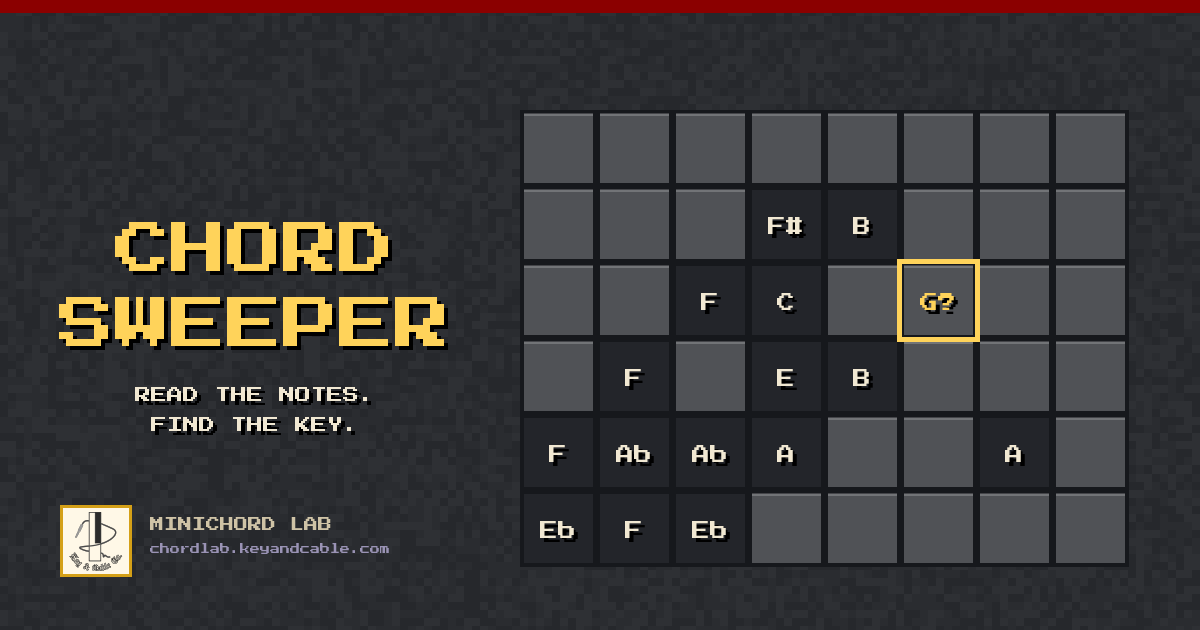
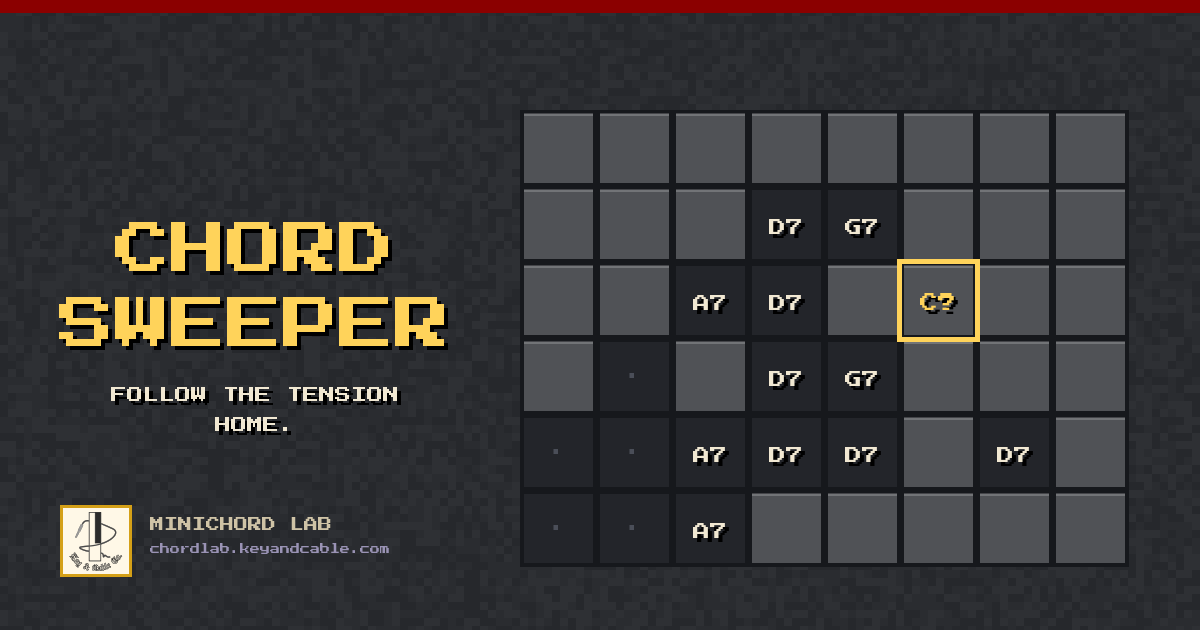
Chord Sweeper: tension and release
Each mine is still a key's home, the release, and every square around
it now holds the tension pointing there: a square's distance from the
mine is how many resolutions its chord is from home, the V7 right
beside it, V of V two away, V of V of V three, calm beyond. Sweeping
plays the square's chord; defusing plays the key's own. The harder
levels bring in the tritone substitutes, the leading-tone diminished
seventh and the bare tritone, which collapses two ways and needs its
neighbours to say which. The rules, side panel, demo, card and
descriptions follow.

diff --git a/arcade/games/chord-sweeper.js b/arcade/games/chord-sweeper.js
@@ -1,36 +1,61 @@
-// Chord Sweeper: a minefield where each mine is a key's home, and the notes around it give it away.
+// Chord Sweeper: a minefield where each mine is a key's home, and the tension around it points there.
 // Part of Minichord Lab's Practice Room page (practice/index.html), loaded there in order with the
 // others as plain scripts sharing one scope; see practice/boot.js.
 "use strict";
 
 // ---------- Chord Sweeper ----------
 // An ordinary minefield, eight by six, swept square by square with a cursor steered on the harp (A
-// sweeps, B flags) or the arrow keys. Each mine is the home of a key, its tonic, and every square
-// hides a note that says how close it is: right beside a mine, that key's 3rd or 5th (for G: B or D);
-// two squares away, the key's other notes (A, C, E, F♯); further out, notes outside the key. So the
-// notes swept say what the key is and how near its home lies. Put the cursor on a mine and play its
-// key's home chord (G major for a G mine, E minor for an E minor one) to defuse it; sweep a mine, or
-// play the wrong chord on it, and it goes off. Defuse every mine to clear the field.
+// sweeps, B flags) or the arrow keys. It's a game about tension and release. Each mine is the home of
+// a key, its tonic: the release. Every square around it hides tension pointing there, and how far a
+// square is from the mine is how many resolutions its chord is from home:
+//   right beside a mine   its key's V7 (G7 for C), one resolution away
+//   two away              V of V (D7: D7 to G7 to C)
+//   three away            V of V of V (A7)
+//   further out           calm: no tension to read
+// The harder levels bring in what else resolves home: the V7's tritone substitute (D♭7 for C, which
+// shares G7's tritone, F and B), and its substitutes up the chain (A♭7, E♭7); the leading-tone
+// diminished seventh (B°7), whose two tritones pull four ways; and the bare tritone, F–B, which
+// collapses in to E–C or out to F♯–A♯, so it points at C or at G♭, and only its neighbours tell which.
+// Sweeping a square plays its chord. Put the cursor on a mine and play its key's home chord to defuse
+// it, the resolution; sweep a mine, or play the wrong chord on it, and it goes off.
 const SW_W=8, SW_H=6;
 const SW_MAJOR=["C","G","D","A","E","B","F♯","F","B♭","E♭","A♭","D♭"], SW_MINOR=["A","E","B","F♯","C♯","D","G","C","F"];
 // The keys to find are shown beside the field: by name at the first levels, then only by their key
 // signature on a staff, and major or minor (a signature fits a major key and its relative minor).
+// subs: how often a clue is a tritone substitute instead; dim: whether the one beside a mine can be
+// the vii°7 or the bare tritone
 const SW_LEVELS=[
   {n:"One major key", mines:1, keys:[["C","G","D","F","A"],[]], named:true},
   {n:"One minor key", mines:1, keys:[[],["A","E","D","B","G"]], named:true},
   {n:"Two keys", mines:2, keys:[["C","G","D","F","A"],["A","E","D","B"]], named:true},
-  {n:"Sharps and flats", mines:2, keys:[SW_MAJOR,SW_MINOR]},
-  {n:"Three keys", mines:3, keys:[SW_MAJOR,SW_MINOR]},
+  {n:"Tritone substitutes", mines:2, keys:[SW_MAJOR,SW_MINOR], subs:.5},
+  {n:"Tritones and diminished", mines:3, keys:[SW_MAJOR,SW_MINOR], subs:.4, dim:true},
 ];
-const SW_STEPS=[[0,0],[1,2],[2,4],[3,5],[4,7],[5,9],[6,11]], SW_STEPS_MIN=[[0,0],[1,2],[2,3],[3,5],[4,7],[5,8],[6,10]];
 const SW_FIFTHS={C:0,G:1,D:2,A:3,E:4,B:5,"F♯":6,"C♯":7,F:-1,"B♭":-2,"E♭":-3,"A♭":-4,"D♭":-5,"G♭":-6};
-// a key: its home, its chord's 3rd and 5th, its other notes, and the five notes outside it, spelled
-// the way the key leans (sharps for sharp keys, flats for flat ones)
+// A key and its chain of tension: V7, V/V and V/V/V spelled from the key (in minor too, V7 being the
+// harmonic minor's), their tritone substitutes named the way a chart names them (D♭7 in C; in D♭,
+// D7 rather than E𝄫7), the leading-tone diminished seventh, and the V7's bare tritone.
 function swKeyOf(tonic, minor){
-  const steps=minor ? SW_STEPS_MIN : SW_STEPS, scale=steps.map(([l,s])=>above(tonic,l,s));
-  const fifths=(SW_FIFTHS[tonic]??0)-(minor?3:0), pcs=new Set(scale.map(pcOfName));
-  const outside=[...Array(12).keys()].filter(pc=>!pcs.has(pc)).map(pc=> (fifths<0 ? FLAT_NAMES : SHARP_NAMES)[pc]);
-  return {tonic, minor, name:`${tonic} ${minor?"MINOR":"MAJOR"}`, chord:tonic+(minor?"m":""), near:[scale[2],scale[4]], warm:[scale[1],scale[3],scale[5],scale[6]], outside};
+  const up=(l,s)=>above(tonic,l,s), sub=s=>FLAT_NAMES[(pcOfName(tonic)+s)%12];
+  return {tonic, minor, name:`${tonic} ${minor?"MINOR":"MAJOR"}`, chord:tonic+(minor?"m":""),
+    chain:[up(4,7), up(1,2), up(5,9)],            // the roots of V7, V/V and V/V/V
+    subs:[sub(1), sub(8), sub(3)],                // their tritone substitutes: ♭II7, ♭VI7, ♭III7
+    dim:up(6,11), tritone:[up(6,11), up(3,5)]};   // vii°7, and the V7's tritone (B and F in C)
+}
+// what a square shows, from its distance to the nearest mine and that mine's key: a chord (with the
+// notes it plays when swept), or calm
+const swTones=(root,q)=>spellChord(root,q)||[root];
+function swClueOptions(k, d, L){
+  if(d>3) return [{label:"·", tones:[]}];
+  const i=d-1, out=[{label:k.chain[i]+"7", tones:swTones(k.chain[i],"7")}];
+  if(L.subs) out.push({label:k.subs[i]+"7", tones:swTones(k.subs[i],"7"), sub:true});
+  if(L.dim && d===1) out.push({label:k.dim+"°7", tones:swTones(k.dim,"°7"), dim:true}, {label:k.tritone.join("–"), tones:k.tritone, tritone:true});
+  return out;
+}
+function swClue(k, d, L){
+  const o=swClueOptions(k, d, L); if(o.length===1) return o[0];
+  if(L.dim && d===1 && Math.random()<.35) return rnd(o.filter(x=>x.dim||x.tritone));
+  return L.subs && Math.random()<L.subs ? o.find(x=>x.sub) : o[0];
 }
 const swKey=(x,y)=>x+","+y;
 function genSweeper(){
@@ -84,7 +109,7 @@ function swDraw(){
     let inner="", cls="";
     if(m && m.defused){ inner=`<b class="home">${m.key.chord}</b>`; cls=" defused"; }
     else if(m && (m.boom || reveal)){ inner=SW_MINE+(reveal?`<small class="mk">${m.key.chord}</small>`:""); cls=m.boom?" boom":" shown"; }
-    else if(open){ inner=`<b>${blast.clue.get(k)}</b>`; if(saved.beginner) cls=` d${Math.min(3,swDist(x,y))}`; }
+    else if(open){ const c=blast.clue.get(k)||{label:"·"}; inner=`<b>${c.label}</b>`; if(c.label==="·") cls=" calm"; if(saved.beginner) cls+=` d${Math.min(3,swDist(x,y))}`; }
     else if(blast.flags.has(k)) inner=SW_FLAG;
     h+=`<span class="swcell${open?" open":""}${cls}${cur?" cur":""}" data-x="${x}" data-y="${y}" style="left:${blast.gx+x*s}px;top:${blast.gy+y*s}px;width:${s}px;height:${s}px">${inner}</span>`;
   }
@@ -106,15 +131,16 @@ function swSide(){
   const done=k=>blast.mines.some(m=>m.key===k && m.defused);
   const find=(blast.keys||[]).map(k=>`<li class="${done(k)?"found":""}">${L.named ? `<b>${k.name}</b>` : `${swSigSvg((SW_FIFTHS[k.tonic]??0)-(k.minor?3:0))}<b>${k.minor?"MINOR":"MAJOR"}</b>`}</li>`).join("");
   blast.sideEl.innerHTML=`<p class="swfind">FIND ${L.named?"":"THESE KEYS"}</p><ul class="swkeys">${find}</ul><p>TO DEFUSE <b>${blast.mines.length?left:(blast.keys||[]).length}</b></p><p>SWEEPS <b>${blast.sweeps}</b></p>
-    <p class="swhow">NEXT TO A MINE: ITS KEY'S 3RD OR 5TH. TWO AWAY: THE KEY'S OTHER NOTES. FURTHER: NOTES OUTSIDE IT.</p>
-    <p class="swhow">ON A MINE, PLAY ITS KEY'S CHORD TO DEFUSE IT.</p>`;
+    <p class="swhow">NEXT TO A MINE: ITS V7. TWO AWAY: V OF V. THREE AWAY: V OF V OF V. FURTHER: CALM.</p>
+    ${L.subs?`<p class="swhow">A TRITONE SUBSTITUTE RESOLVES THE SAME WAY${L.dim?"; SO DO vii°7 AND THE BARE TRITONE":""}.</p>`:""}
+    <p class="swhow">ON A MINE, PLAY ITS KEY'S CHORD: THE RELEASE.</p>`;
 }
 function swBar(){
   if(!blast || blast.kind!=="sweeper" || !blast.hud) return;
   blast.hud.innerHTML=`<span>SCORE ${blast.score}${multTag()}</span><span class="lvl">LEVEL ${blast.level+1} · FIELD ${blast.fields+1}</span><span class="lives">${"♥".repeat(Math.max(0,blast.lives))||"-"}</span>`;
 }
 const SWMENU_G={key:"sweeper", title:"CHORD SWEEPER",
-  rules:()=>`<p>EACH MINE IS A KEY'S HOME. SWEPT SQUARES SHOW NOTES: NEXT TO A MINE, ITS KEY'S 3RD OR 5TH; TWO AWAY, THE KEY'S OTHER NOTES; FURTHER OUT, NOTES OUTSIDE THE KEY.</p><p>STEER ON THE HARP OR THE ARROW KEYS. A SWEEPS, B FLAGS.</p><p>ON A MINE, PLAY ITS KEY'S CHORD TO DEFUSE IT. SWEEP A MINE, OR PLAY THE WRONG CHORD ON IT, AND IT GOES OFF.</p>`,
+  rules:()=>`<p>A GAME OF TENSION AND RELEASE. EACH MINE IS A KEY'S HOME. SWEPT SQUARES SHOW THE TENSION POINTING THERE: NEXT TO A MINE, ITS V7; TWO AWAY, V OF V; THREE AWAY, V OF V OF V. FURTHER OUT IT'S CALM.</p><p>LATER, TRITONE SUBSTITUTES, DIMINISHED SEVENTHS AND BARE TRITONES POINT HOME TOO.</p><p>STEER ON THE HARP OR THE ARROW KEYS. A SWEEPS, B FLAGS.</p><p>ON A MINE, PLAY ITS KEY'S CHORD TO DEFUSE IT. SWEEP A MINE, OR PLAY THE WRONG CHORD ON IT, AND IT GOES OFF.</p>`,
   stat:()=>`FIELDS ${blast.fields}`,
   rows:row=>{
     row("HARP", ["STANDARD STRIP","KEYMASTER GRID"], ()=>saved.harpLayout==="keymaster"?1:0, i=>{ saved.harpLayout = i ? "keymaster" : "strip"; save(); kmRestrip(); });
@@ -155,7 +181,7 @@ function swLay(sx,sy){
   // every other square's note, from the key of the nearest mine
   for(let y=0;y<SW_H;y++) for(let x=0;x<SW_W;x++){ if(swMineAt(x,y)) continue;
     const near=blast.mines.map(m=>({m, d:Math.max(Math.abs(m.x-x),Math.abs(m.y-y))})).sort((a,b)=>a.d-b.d)[0], k=near.m.key;
-    blast.clue.set(swKey(x,y), rnd(near.d===1 ? k.near : near.d===2 ? k.warm : k.outside)); }
+    blast.clue.set(swKey(x,y), swClue(k, near.d, SW_LEVELS[blast.level])); }
 }
 function swTick(now){
   if(!blast || blast.kind!=="sweeper") return;
@@ -175,7 +201,13 @@ function swSweep(){
   if(m) return;
   blast.open.add(k); blast.sweeps++;
   const [px,py]=swXY(x,y), pts=mulPts(5*(blast.level+1)); blast.score+=pts; popup(px,py-20,`+${pts}`);
-  sfx("shoot"); swBar(); swDraw();
+  swHear(blast.clue.get(k)); swBar(); swDraw();
+}
+// a square's chord, heard: the tension, or, for calm, just the sweep
+function swHear(c){
+  if(!c || !c.tones.length || !settings.sounds || !piano.ctx){ sfx("shoot"); return; }
+  let last=52; const ms=c.tones.map(n=>{ let m=48+pcOfName(n); while(m<=last) m+=12; last=m; return m; });
+  const go=()=>piano.play(ms,{when:.02,dur:.9,vel:80}); piano.ctx.state==="running"?go():piano.ctx.resume().then(go).catch(()=>{});
 }
 // the harp: a d-pad, A sweeping and B flagging
 function sweeperNote(pc){
@@ -246,11 +278,12 @@ function swDemo(){
   sfx("attract");
   (async()=>{
     try{
-      say("CHORD SWEEPER","EACH MINE IS A KEY'S HOME. EVERY SQUARE HIDES A NOTE THAT SAYS HOW CLOSE IT IS."); await step(4200);
-      const far=cell(3)||cell(4); if(far){ await walk(...far); await sweep(); say("FAR OUT", `${at(...far)}: A NOTE OUTSIDE THE KEY. THE MINE IS SOME WAY OFF.`); await step(3400); }
-      const warm=cell(2); if(warm){ await walk(...warm); await sweep(); say("WARMER", `${at(...warm)}: ONE OF THE KEY'S OTHER NOTES. TWO SQUARES AWAY.`); await step(3400); }
-      const hot=cell(1); if(hot){ await walk(...hot); await sweep(); say("HOT", `${at(...hot)}: THE KEY'S 3RD OR 5TH. THE MINE IS RIGHT BESIDE IT. B AND D POINT TO G.`); await step(3800); }
-      await walk(m.x,m.y); say("DEFUSE IT","ON THE MINE, PLAY ITS KEY'S CHORD: G MAJOR."); await step(1800);
+      say("CHORD SWEEPER","A GAME OF TENSION AND RELEASE. EACH MINE IS A KEY'S HOME, AND THE TENSION AROUND IT POINTS THERE."); await step(4200);
+      const far=cell(4); if(far){ await walk(...far); await sweep(); say("CALM", "NO TENSION HERE: THE MINE IS SOME WAY OFF."); await step(3000); }
+      const c3=cell(3); if(c3){ await walk(...c3); await sweep(); swHear(blast.clue.get(swKey(...c3))); say("TENSION", `${at(...c3).label}: V OF V OF V. THREE RESOLUTIONS FROM HOME.`); await step(3400); }
+      const c2=cell(2); if(c2){ await walk(...c2); await sweep(); swHear(blast.clue.get(swKey(...c2))); say("CLOSER", `${at(...c2).label}: V OF V, TWO RESOLUTIONS AWAY.`); await step(3400); }
+      const c1=cell(1); if(c1){ await walk(...c1); await sweep(); swHear(blast.clue.get(swKey(...c1))); say("RIGHT BESIDE IT", `${at(...c1).label}: THE V7. ONE RESOLUTION, AND IT'S HOME: G.`); await step(3800); }
+      await walk(m.x,m.y); say("RELEASE","ON THE MINE, PLAY ITS KEY'S CHORD: G MAJOR. THE TENSION RESOLVES."); await step(1800);
       demoPlay([55,59,62,67]); m.defused=true; blast.phase="play"; swDraw(); blast.phase="demo"; const [px,py]=swXY(m.x,m.y); explode(px,py,30,["#7FE08A","#FFD35A"]); sfx("bonus"); await step(2600);
       say("READY?","SWEEP A MINE, OR PLAY THE WRONG CHORD ON IT, AND IT GOES OFF."); sfx("level"); await step(2600);
       endSwDemo(token);

diff --git a/tests/arcade/chord-sweeper.test.js b/tests/arcade/chord-sweeper.test.js
@@ -1,6 +1,7 @@
-// Chord Sweeper: every square's note says how close the nearest mine is (its key's 3rd or 5th next
-// to it, the key's other notes two away, notes outside the key further out); the first sweep is
-// safe; the harp steers, sweeps and flags; the mine's key's chord defuses it, and a wrong one sets it off.
+// Chord Sweeper: tension and release. Every square's chord says how many resolutions it is from the
+// nearest mine's home (its V7 beside it, V/V two away, V/V/V three, calm beyond), with tritone
+// substitutes at the harder levels; the first sweep is safe; the harp steers, sweeps and flags; the
+// mine's key's chord defuses it, and a wrong one sets it off.
 const t=require("./harness").load("chord-sweeper");
 (async()=>{
   const {w, sleep, chord, note, key, check}=t;
@@ -9,15 +10,18 @@ const t=require("./harness").load("chord-sweeper");
   check("the keys to find show before the first sweep, as key signatures at this level", t.d.querySelectorAll(".swkeys li").length===2 && t.d.querySelectorAll(".swkeys .swsig").length===2);
   key("Space"); await sleep(50);
   check("the first sweep is always safe", a.open.size===1 && a.lives===3 && a.mines.length===2);
-  // the clue rule, over the whole field
-  let bad=0;
+  // the chain of tension, spelled: for C, G7 D7 A7, their substitutes D♭7 A♭7 E♭7, B°7, and B–F
+  const kc=w.eval('swKeyOf("C",false)'), kd=w.eval('swKeyOf("D♭",false)'), ka=w.eval('swKeyOf("A",true)');
+  check("C major's tension: G7, D7, A7; substitutes D♭7, A♭7, E♭7; B°7; the tritone B–F",
+    kc.chain.join()==="G,D,A" && kc.subs.join()==="D♭,A♭,E♭" && kc.dim==="B" && kc.tritone.join()==="B,F", `${kc.chain} | ${kc.subs} | ${kc.dim} | ${kc.tritone}`);
+  check("D♭ major's substitute is named D7, not E𝄫7; A minor's V7 is E7", kd.subs[0]==="D" && kd.chain[0]==="A♭" && ka.chain[0]==="E");
+  // the clue rule, over the whole field: each square's chord is one its distance and key allow
+  let bad=0; const L=w.eval("SW_LEVELS[blast.level]");
   for(let y=0;y<6;y++) for(let x=0;x<8;x++){ if(a.mines.some(m=>m.x===x&&m.y===y)) continue;
-    const near=a.mines.map(m=>({m,d:Math.max(Math.abs(m.x-x),Math.abs(m.y-y))})).sort((p,q)=>p.d-q.d)[0], k=near.m.key, c=a.clue.get(x+","+y);
-    const ok = near.d===1 ? k.near.includes(c) : near.d===2 ? k.warm.includes(c) : k.outside.includes(c);
+    const near=a.mines.map(m=>({m,d:Math.max(Math.abs(m.x-x),Math.abs(m.y-y))})).sort((p,q)=>p.d-q.d)[0], c=a.clue.get(x+","+y);
+    const ok=w.eval("swClueOptions")(near.m.key, near.d, L).some(o=>o.label===c.label);
     if(!ok) bad++; }
-  check("every square's note fits its distance from the nearest mine", bad===0, `${bad} wrong`);
-  const k0=a.mines[0].key;
-  check("a key's clues are its 3rd and 5th, its other notes, and the notes outside it", k0.near.length===2 && k0.warm.length===4 && k0.outside.length===5, `${k0.name}: ${k0.near.join(" ")} | ${k0.warm.join(" ")} | ${k0.outside.join(" ")}`);
+  check("every square's chord is its distance's: V7 beside a mine, V/V two away, V/V/V three, calm beyond", bad===0, `${bad} wrong`);
   // steer to the first mine with the harp's d-pad, defuse it with its key's chord
   const m=a.mines[0], dirPc=d=>[...Array(12).keys()].find(pc=>w.eval(`kmControl(${pc})`)===d);
   while(a.cur[0]<m.x){ note(dirPc("right")); await sleep(5); } while(a.cur[0]>m.x){ note(dirPc("left")); await sleep(5); }

diff --git a/arcade/index.html b/arcade/index.html
@@ -4,7 +4,7 @@
 <meta charset="utf-8">
 <meta name="viewport" content="width=device-width, initial-scale=1, viewport-fit=cover">
 <title>Minichord Arcade</title>
-<meta name="description" content="Eleven arcade games played on the minichord itself: shoot down chords, command the harp, steer a snake, crack chord asteroids, stack intervals, break out, defend the circle of fifths, fly rescue missions, hunt a fleet of keys, sweep a minefield for its keys and hear the notes between the frets. Free, in the browser, from Minichord Lab.">
+<meta name="description" content="Eleven arcade games played on the minichord itself: shoot down chords, command the harp, steer a snake, crack chord asteroids, stack intervals, break out, defend the circle of fifths, fly rescue missions, hunt a fleet of keys, sweep a minefield of tension for its keys and hear the notes between the frets. Free, in the browser, from Minichord Lab.">
 <!-- the card a link to this page unfurls into -->
 <meta property="og:type" content="website">
 <meta property="og:site_name" content="Minichord Lab">
@@ -146,7 +146,7 @@ const GAMES=[
   {slug:"fifths-defender", path:"fifths-defender", name:"FIFTHS DEFENDER", plays:["KNOB","CHORDS","HARP"], pitch:"Tempest on the circle of fifths: turn a knob to aim down a key and play its chord to fire."},
   {slug:"chopper-rescue", path:"chopper-rescue", name:"CHOPPER RESCUE", plays:["CHORDS"], pitch:"Decode the radio: \"survivors at vi in G\" is Em. Play the chord to fly there before the flare burns out."},
   {slug:"key-fleet", path:"key-fleet", name:"KEY FLEET", plays:["CHORDS"], pitch:"Battleship on the chord buttons: the ships are keys, three chords side by side. Fire chords and deduce the keys."},
-  {slug:"chord-sweeper", path:"chord-sweeper", name:"CHORD SWEEPER", plays:["HARP D-PAD","CHORDS"], pitch:"A minefield where each mine is a key\'s home and the notes around it give it away. Play its chord to defuse it."},
+  {slug:"chord-sweeper", path:"chord-sweeper", name:"CHORD SWEEPER", plays:["HARP D-PAD","CHORDS"], pitch:"Tension and release: each mine is a key\'s home, and the dominant chords around it point there. Play its chord to defuse it."},
   {slug:"between-the-frets", path:"between-the-frets", name:"BETWEEN THE FRETS", plays:["CHORDS","MODIFIER"], pitch:"The notes between the notes: hear if it's a quarter-tone sharp or flat, then find it with the modifier."},
 ];
 

diff --git a/chord-sweeper/index.html b/chord-sweeper/index.html
@@ -3,20 +3,20 @@
 <head>
 <meta charset="utf-8">
 <title>Chord Sweeper · Minichord Lab</title>
-<meta name="description" content="Chord Sweeper: a minefield where each mine is a key's home, and the notes around it give it away. Defuse it by playing its key's chord. A free arcade game from Minichord Lab.">
+<meta name="description" content="Chord Sweeper: a game of tension and release. Each mine is a key's home, and the dominant chords around it point there. Defuse it by playing its key's chord. A free arcade game from Minichord Lab.">
 <!-- the card a link unfurls into; previews read these tags here without running the script below -->
 <meta property="og:type" content="website">
 <meta property="og:site_name" content="Minichord Lab">
 <meta property="og:title" content="Chord Sweeper">
-<meta property="og:description" content="Each mine is a key's home, and the notes swept around it give it away. Play its key's chord to defuse it.">
+<meta property="og:description" content="Each mine is a key's home, and the tension around it points there: its V7 beside it, V of V two away. Play its key's chord to resolve it.">
 <meta property="og:url" content="https://chordlab.keyandcable.com/chord-sweeper/">
 <meta property="og:image" content="https://chordlab.keyandcable.com/chord-sweeper/card.png">
 <meta property="og:image:width" content="1200">
 <meta property="og:image:height" content="630">
-<meta property="og:image:alt" content="Chord Sweeper: a minefield of swept squares showing notes, warmer toward a G major mine, the cursor beside it">
+<meta property="og:image:alt" content="Chord Sweeper: a minefield of swept squares showing dominant chords, A7, D7 and G7, closing in on a C major mine">
 <meta name="twitter:card" content="summary_large_image">
 <meta name="twitter:title" content="Chord Sweeper">
-<meta name="twitter:description" content="Read the notes. Find the key.">
+<meta name="twitter:description" content="Follow the tension home.">
 <meta name="twitter:image" content="https://chordlab.keyandcable.com/chord-sweeper/card.png">
 <meta name="theme-color" content="#8B0000">
 <!-- the game's own address: The Practice Room with Chord Sweeper on its own -->

diff --git a/index.html b/index.html
@@ -99,7 +99,7 @@
     <a class="view" href="chord-sweeper/">
       <img src="chord-sweeper/card.png" alt="" loading="lazy" width="1200" height="630">
       <h2>Chord Sweeper</h2>
-      <p>A minefield where each mine is a key's home: the notes swept around it are its 3rd and 5th close by, its other notes further off, and outsiders far away. Find it, then play its chord to defuse it.</p>
+      <p>A game of tension and release: each mine is a key's home, and the chords swept around it point there, its V7 beside it, V of V two away, V of V of V three. Find it, then play its chord to resolve it.</p>
     </a>
     <a class="view" href="between-the-frets/">
       <img src="between-the-frets/card.png" alt="" loading="lazy" width="1200" height="630">

diff --git a/practice/index.html b/practice/index.html
@@ -570,7 +570,8 @@ html.arcadepage .gamebar{align-items:flex-end}
 .swcell svg{width:56%;height:auto}
 .swcell.boom{background:#8B0000}
 .swcell.shown .mk{position:absolute;bottom:3px;font:400 .45rem "Minichord Lab Accidentals","Press Start 2P",monospace;color:#FFD35A}
-.swcell.defused{background:#1E3A24}.swcell b.home{color:#7FE08A}
+.swcell.defused{background:#1E3A24}
+.swcell.calm b{color:#4A4E58}.swcell b.home{color:#7FE08A}
 .swside{position:absolute;z-index:3;font:400 .5rem/2 "Press Start 2P",monospace;color:#F1E8D2}
 .swside b{color:#FFD35A;font-weight:400}
 .swside .swhow{color:#9A93B5;margin-top:12px}

diff --git a/README.md b/README.md
@@ -24,7 +24,7 @@ Small web views that use the [minichord](https://github.com/BenjaminPoilve/minic
 - **[Fifths Defender](fifths-defender/)**: Tempest on the circle of fifths, on a page of its own. The twelve keys stand round the player in fifths, C at the top; enemies crawl in along the spokes. Turn a knob (or the mouse, or the arrow keys) to aim down a spoke, and play that key's chord to fire along it, so a key's neighbours on the circle are learnt by feel. Levels climb from the near keys to all twelve, then the relative minors, the dominant sevenths (G7 fires down the C spoke), and the key's note on the harp. In Chord Stack a knob is the transposition dial, sliding the falling piece through the columns.
 - **[Chopper Rescue](chopper-rescue/)**: a rescue flight that runs on decoding the radio, on a page of its own. The radio calls coordinates in theory ("survivors at vi in G"); the player decodes them into a chord and plays it, and the chopper flies from its base to where that chord lies, finding the survivors if the call was decoded right and nobody if not. Each call is an emergency (a fire, a bear, a yeti, a boat going down, hikers stranded) animated on the map, but the same trouble breaks out in one or two other places too, so only the radio's coordinates say which to fly to. Levels climb from C, with the radio saying the chord after a while as training, to nearby keys, every key, sevenths and V of V, and borrowed chords and whole routes read as progressions. Each call comes in through static over a station tone: tune the radio to it by ear (a knob turns the dial, the arrow keys nudge it, or pluck the station's note on the harp) and only then does the call come through. At the right place the survivors come up only when answered with their signal, the chord's notes plucked in order on the harp, root upward, and at the top level from the 3rd.
 - **[Key Fleet](key-fleet/)**: battleship on the chord buttons, on a page of its own. Their columns run in fifths, so a key's chords sit side by side: three neighbours in the major row are a key's IV, I and V, three in the minor row a minor key's iv, i and v. The enemy's ships are keys hidden on that chart; the player fires by playing chords, and hits only cripple a ship: it sinks when the player calls its key, by plucking its tonic on the harp (at the first levels), playing its cadence, V7 then I, or setting its key signature with the key change combo. A key called before all its chords are hit is sunk by deduction, for a bonus; a wrong call costs a torpedo. Later fleets bring ships in other theory shapes: ii–V–I cadences zigzagging one chord to a row, minor keys with their V7 under the v, whole keys (six chords across two rows), and dominant pairs and chains in the 7 row. Islands (rocks where no ship lies) give free clues, and at the puzzle levels the number of ship chords in each column and row is shown at the edges, Battleship-solitaire style. From level 3 the sea reaches one column past the plain buttons each side, B♭ and F♯, so F major, B major and their relatives sail too; the last levels widen it further along the line of fifths, past the plain buttons to the flat side (G♭ to B♭) and the sharp side (F♯ to G♯), reached with the modifier, so every key is there and enharmonic keys like C♯ and D♭ major are different places; the harp flips the modifier between sharpening and flattening. Torpedoes are limited, and a sink with no misses scores double.
-- **[Chord Sweeper](chord-sweeper/)**: a minefield on a page of its own, where each mine is a key's home. A cursor steered on the harp (A sweeps, B flags) or the arrow keys sweeps squares, and each shows a note that says how near the closest mine is: that key's 3rd or 5th right beside it, the key's other notes two away, notes outside the key further out. So the notes give away both the key and where its home lies. On a mine, the key's chord (major or minor) defuses it; sweeping a mine, or playing the wrong chord on it, sets it off. The keys to find are shown beside the field, by name at the first levels and then only as key signatures on a staff. Levels go from one major key to three keys in sharps and flats, and beginner mode tints swept squares warm or cool.
+- **[Chord Sweeper](chord-sweeper/)**: a game of tension and release, on a page of its own. A minefield where each mine is a key's home, swept with a cursor steered on the harp (A sweeps, B flags) or the arrow keys. Each swept square shows a chord, and how far it is from the nearest mine is how many resolutions it is from that key's home: the V7 right beside it (G7 for C), V of V two away (D7), V of V of V three away (A7), calm beyond. The harder levels add the tritone substitutes (D♭7, A♭7, E♭7), the leading-tone diminished seventh and the bare tritone, which collapses two ways and needs its neighbours to say which. Sweeping plays the square's chord; on a mine, its key's chord defuses it, the release. The keys to find are shown beside the field, by name at the first levels and then as key signatures.
 - **[Between the Frets](between-the-frets/)**: a quarter-tone ear game on a page of its own, in black-and-white polka dots. A note plays, then another: the same, a quarter-tone sharp or a quarter-tone flat? Answer on the chord buttons, any column (the major row sharp, the minor row in tune, the 7 row flat); then find the note in between with the modifier, which in this game means a quarter-tone. The game silences the minichord's speaker (its output amplifier, not the MIDI velocity) and makes every sound on the page, retuned; holding the key at C, a black-key chord can only come from the modifier, so C♯ means C and the modifier, sounded a quarter-tone up. As E and B have no black key above them, nor C and F below, it asks for quarter-sharps only on C, D, F, G and A and quarter-flats on D, E, G, A and B, setting the modifier's way for each. Levels run from notes to intervals, the neutral third and riffs where one note bends. On firmware 18 and up the minichord plays the quarter-tones itself: the game sets it to 24-EDO (temperament 11, where the modifier moves a note by a quarter-tone) and MPE, leaves its speaker on, and reads each quarter-tone from the bend on the chord's voices, so any letter can go either way.
 - **[The Practice Room](practice/)** (once called Spellbound): games that train you to find chords and notes on the minichord quickly, with answers timed. Read and play: Spell it, Numerals, On the staff (engraved in Bravura), Slash chords, Key detective, a mix, Chord Invaders, an arcade round in the style of the old space shooters: chords fall through a pixel starfield and each one played before it lands is shot down by the ship, with a level menu to start from, ★ chords worth five times as much that do no harm if missed, big banners for new levels, a readout of what the game heard, a game over screen with Play again, every game starting in C major, and a HOW TO PLAY demo, also run on its own as an attract mode, that teaches the minichord on a pixel model of it: the button for each chord type, the modifier, slash chords and the key change combo, with levels that add chord types, the modifier's roots, inversions, any slash chord and finally Barry Harris mode (switched on mid-round once the field is clear), getting faster as they go, a starting level to choose, and key bars from level 3: set that key signature with the key change combo before the bar lands and the chords after it are all plain buttons, and Seven chords, which sets the minichord's key signature and has you play the key's seven chords in order, with the signature engraved on the staff. The harp, in "Scale per chord" so the chord you hold sets the scale: Harp hunt, Play by number (tunes in scale degrees), Simon says (a melody that grows by a note each round) and Missing note, plus Chord scales, where the game writes a real scale into the custom scale on the chord you press and you name it. Scale rounds can be answered on the chord buttons: a mode by pressing the major chord whose scale has the same notes, anything else through a keypad lettered C to B. The chromatic harp (address 98): Follow the directions (up a fifth, down a minor third…), Pluck the chord and Build the scale. Alternate layout: Hidden layout (seven secret chords loaded onto the button combinations; find the one asked for by ear and press the spacebar), Odd one out (three chords of a family and an impostor), and Shades of the third (31-EDO's subminor, minor, neutral, major and supermajor triads, to put in order or find by ear). Voice leading: Reshape, where you hold a chord and pluck the harp to turn it into another (C to Am is the G up to A) while the game points the cantus at the voice that has to move, from one-voice moves through two and the bass to aiming the cantus yourself; Smooth moves, checked against the minichord's own voice-leading search, and Which voice moved?, two chords voiced by that search where only one voice moves, to name by ear. Mystery settings: Scale detective, Transpose detective, Temperament taster and Tune up, which turns the minichord into a plain tone in the waveform you pick, with no vibrato, tremolo or effects, so the only beating is the tuning. Scales come in four levels, everyday to exotic (phrygian dominant, Hungarian minor, the Neapolitans, altered, Persian, enigmatic and more). Every game but Temperament taster runs the minichord in equal temperament, and each round sets what it needs (harp mode, chromatic mode, MPE, voice leading, slash voice, the modifier, Barry Harris mode) by itself; all of it goes back when you leave the game that needed it, or at "Put my settings back". Every answer says how to press it on your minichord, and every game works without one through pickers and the piano. A round answered right first time moves on by itself; after a miss the game waits for Next, so there's time to read the answer. Right answers ring a soft chime, with a lighter one for each right step of a path, scale or chord; wrong ones flash the card red with two soft low notes, and a Sounds button turns the sounds off. Every answer, once found or shown, lights up on a piano keyboard (a chord from its root, a slash chord over its bass, a scale to its octave, a note among its scale or chord), and Key detective writes each chord's numeral under it after a wrong guess or the answer. A found scale shows how it's built (its degrees, its whole and half steps, and its notes on the root), and so does a chord you missed first. A pill beside the game's name shows which way the modifier goes, pulses when the game changes it, and says when a question needs it. Every note in the chromatic harp games is spelled the way its prompt spells it. The Key setting can also pick a new key each time and set it on the minichord, so the key's notes are all plain buttons. Solfège is something to play, like scale degrees: Play by solfège plucks tunes from do re mi on the key, and Harp Command has a solfège level after its scale degrees. While a game runs, a double tap on the modifier flips it between sharp and flat (the player's own double tap goes back after), and the arcade games' title screens can be run from the chord buttons: a column's major button starts that level, its minor button sets the speed, and its 7 button switches game. Every arcade game can go full screen, from the button in the field's corner or F. An optional CRT look (scanlines, glow, rounded dark corners, a faint roll) is on the title screens' options; a game over screen left alone goes back to the title loop; and games played with beginner mode on stay off the high-score board. Full screen is a cabinet: the game's screen at 4:3 in CRT, in a bezel under a lit marquee with side art (filling the window where a browser can't go full screen, as on an iPhone). Every two levels a bonus round takes over for twenty seconds, one of five mini-games (Tune it, tuning a note to A 440 by ear; Missing note; Odd one out; Key detective; Simon says) with only points to win, and the game carries on after. Each keeps a high-score board, shown in the title loop after the rules and entered with three initials at game over; scores count only when a minichord was connected and played, go to a shared board (the arcade-scores app on the flask-stack, reached through Tailscale Funnel) and to the browser's own, which stands in when the shared one can't be reached. The arcade games open like real cabinets: the title, then the rules rolling up the screen, then the demo, round again until a chord, a pluck, a key or a click brings up the options. A beginner mode keeps the minichord on screen and lights what to press: the chord buttons, the modifier and a slash's bass, and in the harp games the string to pluck, drawn as the standard strip or the keymaster grid.
 - **[String quartet](quartet/)**: the four chord voices as a string quartet, lowest to the cello, then viola, second and first violin, each drawn on the platform with the string it would play on lit and a moving bow. Arco, pizzicato, tremolo, sul ponticello and con sordino; six dynamics; two seatings; a hall; the cello an octave down; parts kept in their ranges. Each voice glides on its own bow with MPE. Below the platform an open score writes the four parts as they play, viola in alto clef and cello in bass, in the minichord's key signature, and carries them off to the left; the minichord's MPE, voice leading, glide, temperament, slash voice and cantus can be set from the page.

diff --git a/tests/README.md b/tests/README.md
@@ -22,7 +22,7 @@ key presses, checking what should happen.
 | `chord-breakout` | the knob steers (only the chosen one, without wobble or the mouse); the ball bounces true; chords break bricks |
 | `fifths-defender` | the knob's centred, endless dial; the aimed key's chord fires, another doesn't |
 | `chopper-rescue` | the knobs switched on; tuning in by harp, keys or knob; Ben; the radio decodes right; decoys; the survivors' signal in order; no repeated calls |
-| `chord-sweeper` | every square's note fits its distance from the nearest mine; the harp steers; a key's chord defuses its mine, a wrong one sets it off |
+| `chord-sweeper` | each key's chain of tension, spelled; every square's chord fits its distance from the nearest mine; the harp steers; a key's chord defuses its mine |
 | `between-the-frets` | the speaker silenced; only recognisable quarter-tones asked for; answering by ear, finding it with the modifier; riffs |
 | `between-the-frets-firmware` | on firmware 18: 24-EDO and MPE, any letter, the quarter-tone read from the minichord's own bend |
 | `key-fleet` | fleets never touch; hits cripple; keys are called by tonic, cadence and the key change combo |
